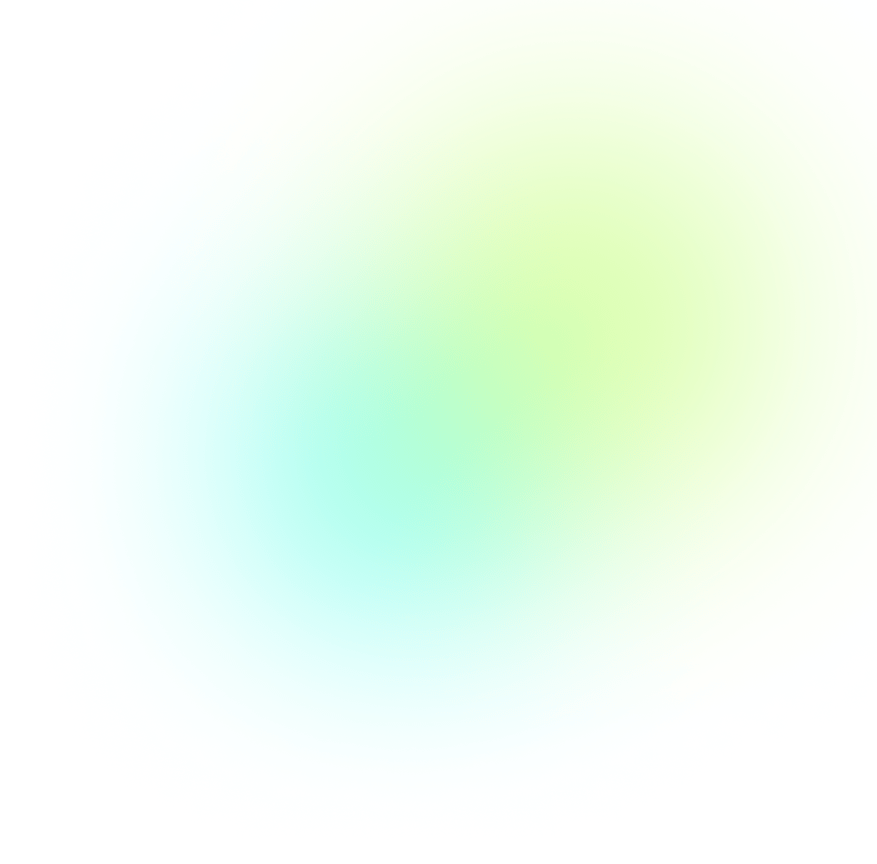
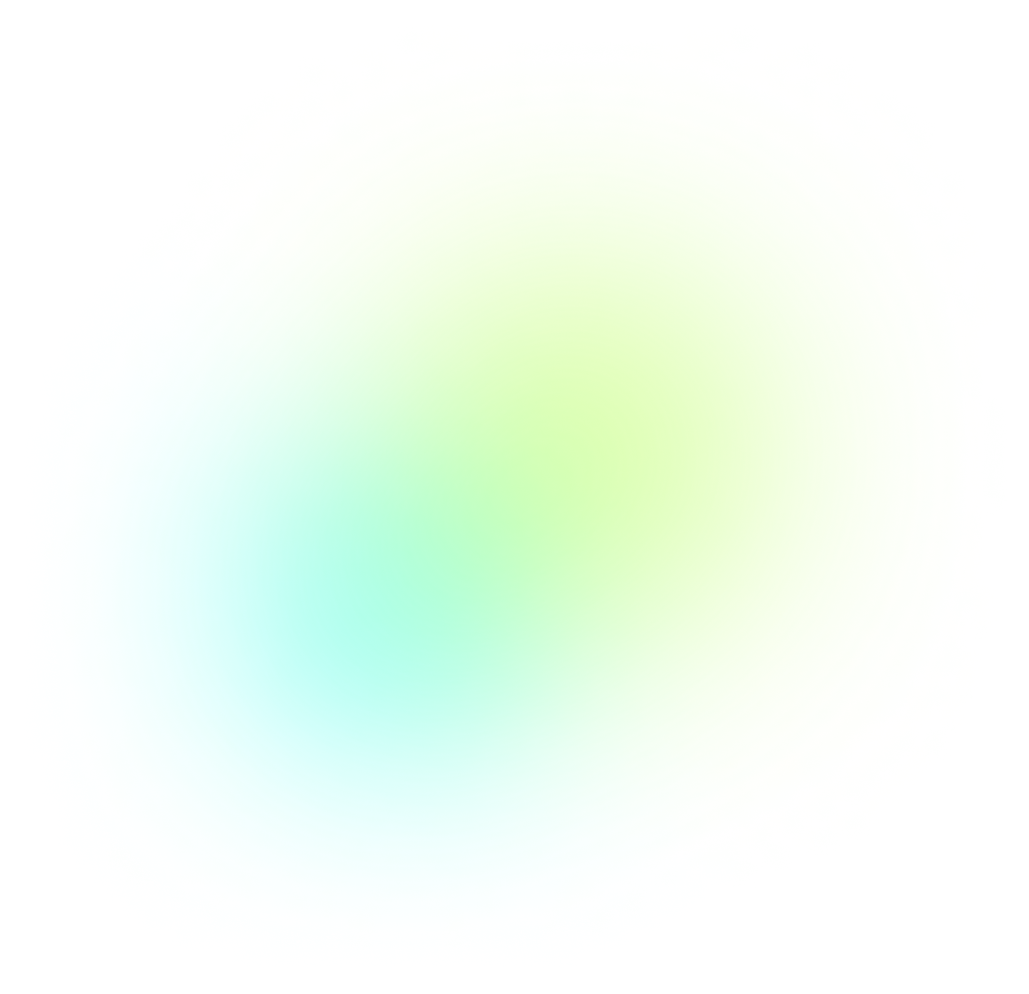
landing

Changed region(s): [[0.5542, 0.0938, 0.9236, 0.5], [0.4002, 0.375, 0.6157, 0.5938], [0.2771, 0.625, 0.3387, 0.6875]]

diff --git a/site/landing/site1/index.html b/site/landing/site1/index.html
@@ -170,7 +170,7 @@
                         <div class="cards">
                             <div class="cards__item">
                                 <div class="cards__item-image">
-                                    <a href="#"><img src="images/avalance.webp" alt="avalance"></a>
+                                    <a href="#"><img src="images/avalance.png" alt="avalance"></a>
                                 </div>
                                 <div class="cards__item-title">
                                     <a href="#">Avalance</a>
@@ -288,7 +288,7 @@
                 </div>
             </div>
         </section>
-        <section class="section section_bottom">
+        <section class="section section_bottom" style="display: none">
             <div class="container">
                 <div class="l-two-cols">
                     <div class="l-two-cols__left team">

diff --git a/site/landing/site1/styles.css b/site/landing/site1/styles.css
@@ -105,8 +105,8 @@ h1, h2, h3, h4, h5 {
 
 .promo-bg {
     position: absolute;
-    top: 0px;
-    right: 105px;
+    top: -150px;
+    right: -200px;
     z-index: 1;
 }
 
@@ -354,9 +354,9 @@ h1, h2, h3, h4, h5 {
     }
 
     .promo-bg {
-        right: -50px;
-        max-width: 400px;
-        top: 50px;
+        top: -50px;
+        right: -150px;
+        max-width: 600px;
     }
 
     .promo__title, .promo__teaser {
